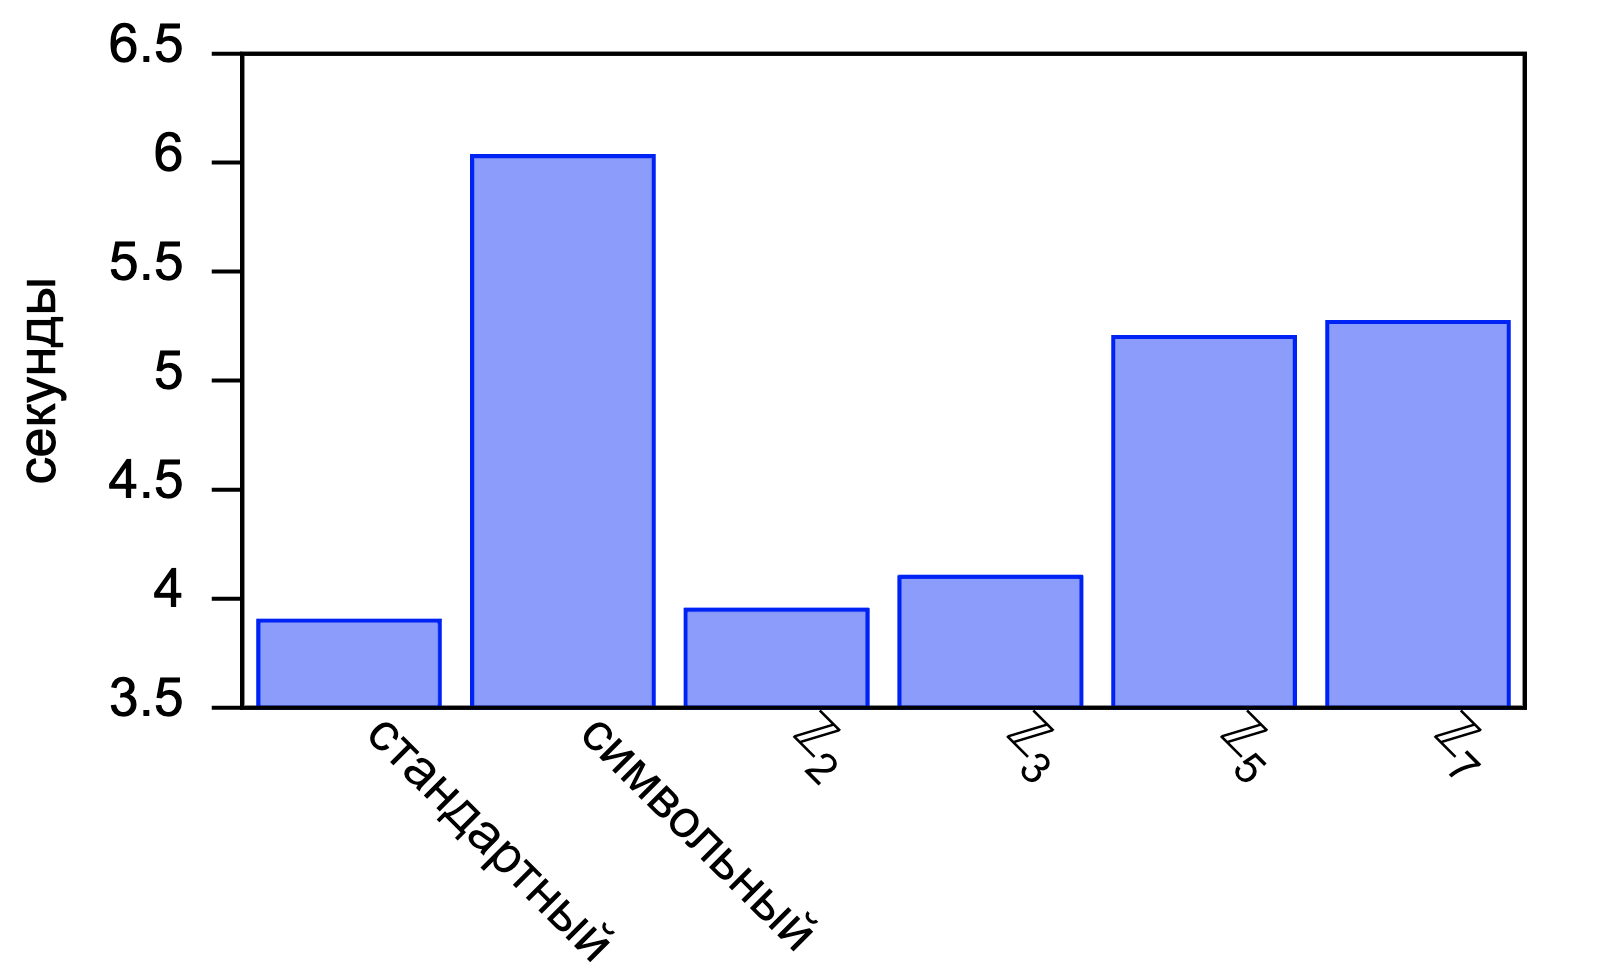
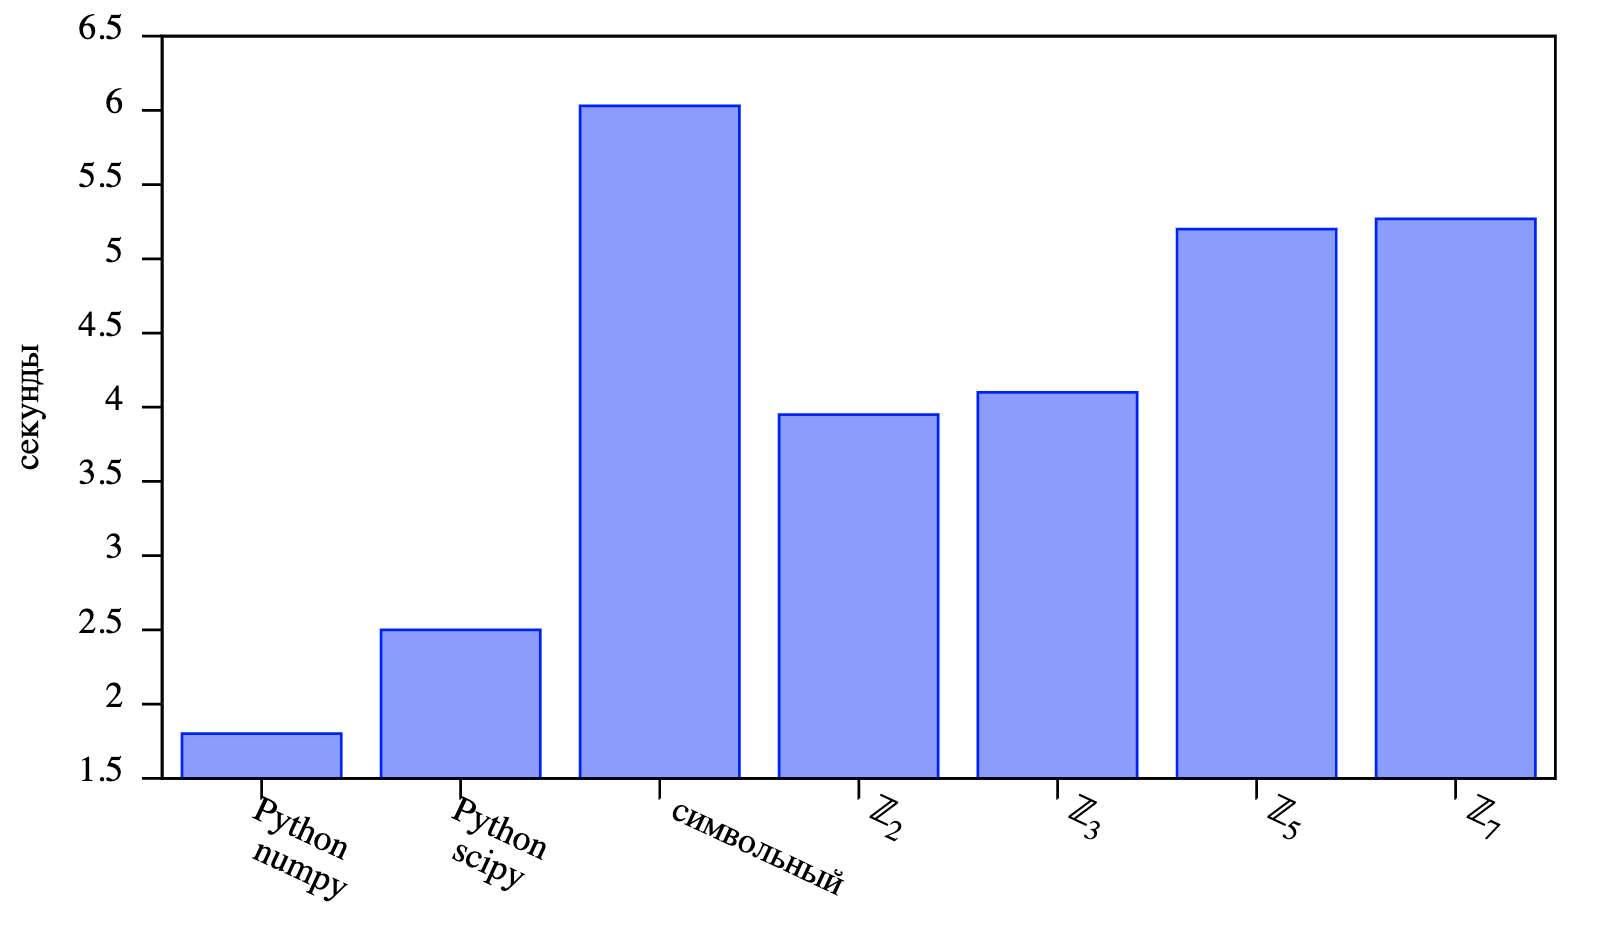
Add some plots

Changed region(s): [[0.0312, 0.0, 0.9688, 0.9936], [0.0, 0.2794, 0.1562, 0.5278], [0.0938, 0.5589, 0.1562, 0.621]]

diff --git a/src/latex/sharov.tex b/src/latex/sharov.tex
@@ -1042,6 +1042,7 @@ $$
 \section{Разработка многопоточной библиотеки для работы с $p$-адической арифметикой}
 
 \subsection{Описание алгоритмов для арифметических операций}
+TODO: добавить после имплементации
 
 \subsection{Многопоточный метод решения СЛАУ}
 Стандартная схема вычисления вектора $\boldsymbol{x}$ для СЛАУ $\boldsymbol{A}\cdot \boldsymbol{x} = b$ содержит представление рациональных чисел с помощью $p$-адических чисел в виде кода Гензеля и выполнении операций над данными числами. Однако, как видно из теоремы \ref{th:backward_mapping} представление чисел в виде кода Гензеля $\mathbb{H}_{p,r}$ возможно только когда ожидаемый результат будет принадлежать множеству $\mathbb{F}_{p,r}$. Это значит, что неоходимо произвести правильный выбор чисел $p$ и $r$.
@@ -1318,8 +1319,20 @@ $E := I; \; state := n;$
 
 %-------------------------------------------------------------------%
 \section{Сравнение производительности классических и $p$-адических методов на примере прикладных задач}
+
+
+Все тесты в этом параграфе будут производятся на компьютере с процессором Intel Core i5-7360U и 16 Гб оперативной памяти. Для тестов будем использовать 4 параллельных потока.
+
+
 \subsection{Решение СЛАУ}
-TODO
+Подход к тестированию вычисления решения СЛАУ будет производится тем же методом, что и в случае однопоточной программы. Сравнение будет производить с символьным методом решения СЛАУ из пакета |scipy|, с методом для решения СЛАУ из пакета |numpy|, с однопоточным и многопоточным $p$-адическим методом Гаусса. В случае с $p$-адическими методами будем использовать числа из $\mathbb{Z}_2$, $\mathbb{Z}_3$, $\mathbb{Z}_5$, $\mathbb{Z}_7$. 
+
+
+\begin{figure}[H]
+\centerline{\includegraphics[width=0.85\linewidth]{../gnuplot/comp/gauss/plot.png}}
+\caption{todo}
+%\label{img:single:det}
+\end{figure}
 
 \subsection{TODO}
 %{Вычисление собственных значений и собственных векторов
@@ -1327,7 +1340,12 @@ TODO
 
 Идея метода Якоби состоит в том, чтобы обнулять недиагональные элементы вращениями до тех пор, пока они все не обнулятся и получится диагональная матрица. После каждого вращения сумма квадратов внедиагональных элементов уменьшается, что приводит к сходимости процесса диагональности. 
 
-TODO
+
+\begin{figure}[H]
+\centerline{\includegraphics[width=0.85\linewidth]{../gnuplot/comp/jacoby/plot.png}}
+\caption{todo}
+%\label{img:single:det}
+\end{figure}
 
 \subsection{Решение ОДУ}
 Для сравнения методов возьмем дифференциальное уравнение падающей сферы:
@@ -1399,9 +1417,23 @@ y_{n+1}=y_n+h \cdot f(x_n, y_n)
 Для наглядности будем так же сравнивать различные числа из различных полей, таких как $\mathbb{Z}_2$, $\mathbb{Z}_3$, $\mathbb{Z}_5$ и $\mathbb{Z}_7$.
 
 
+\begin{figure}[H]
+\centerline{\includegraphics[width=0.85\linewidth]{../gnuplot/comp/euler/plot.png}}
+\caption{todo}
+%\label{img:single:det}
+\end{figure}
 
-РЕЗУЛЬТАТЫ
+\begin{figure}[H]
+\centerline{\includegraphics[width=0.85\linewidth]{../gnuplot/comp/rk/plot.png}}
+\caption{todo}
+%\label{img:single:det}
+\end{figure}
 
+\begin{figure}[H]
+\centerline{\includegraphics[width=0.85\linewidth]{../gnuplot/comp/rk/multi.png}}
+\caption{todo}
+%\label{img:single:det}
+\end{figure}
 
 
 \subsection{Вычисление $e^{Ax}$}
